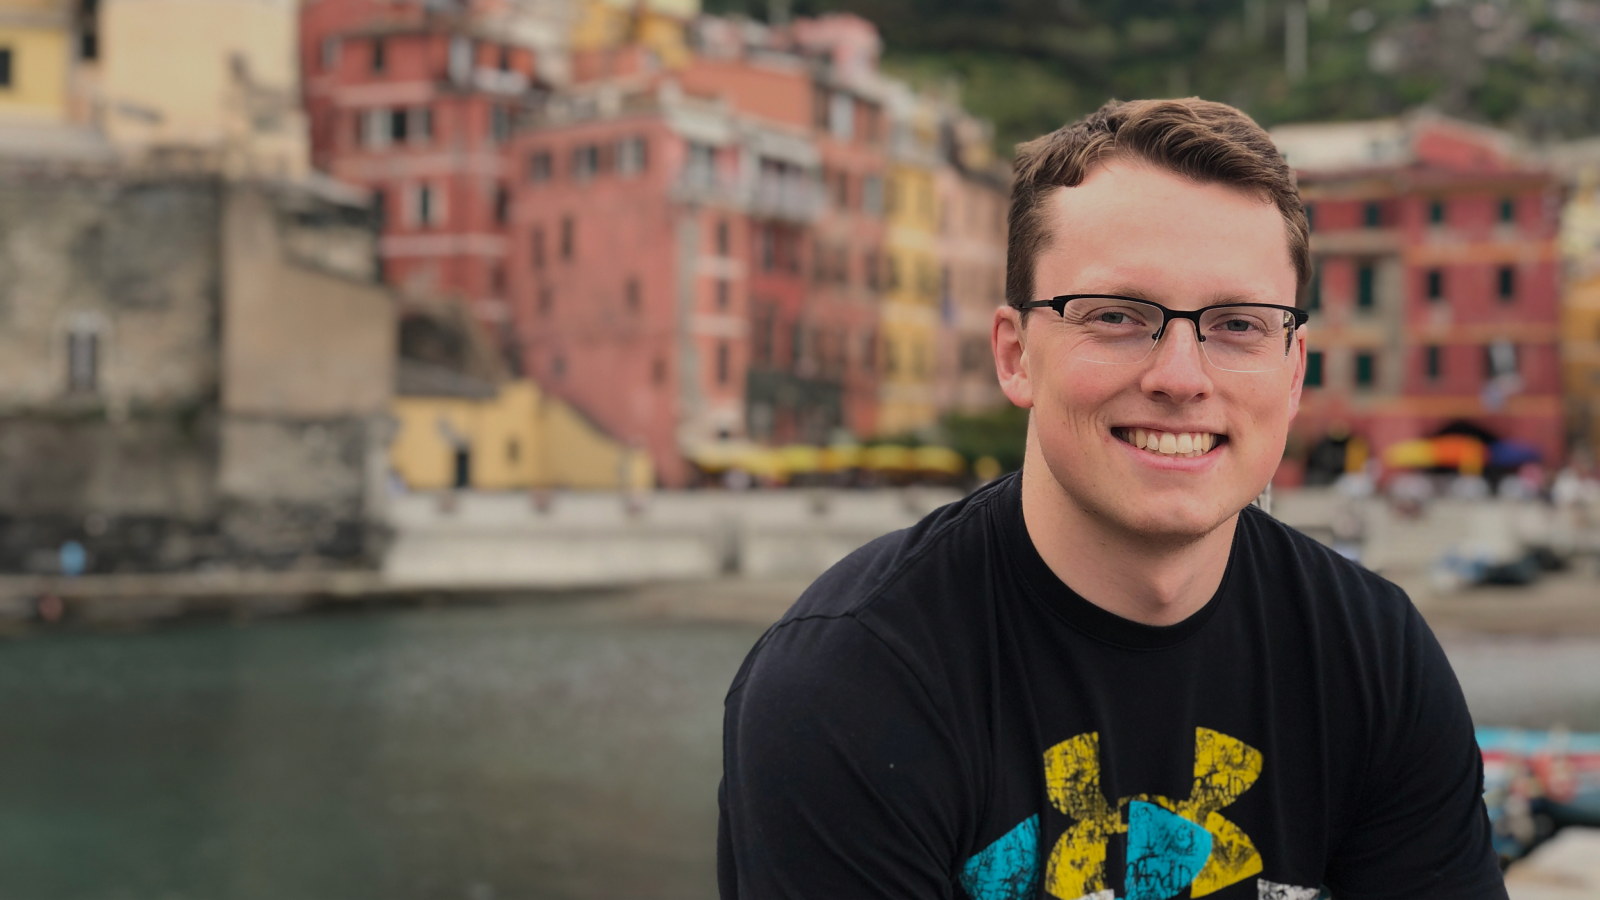
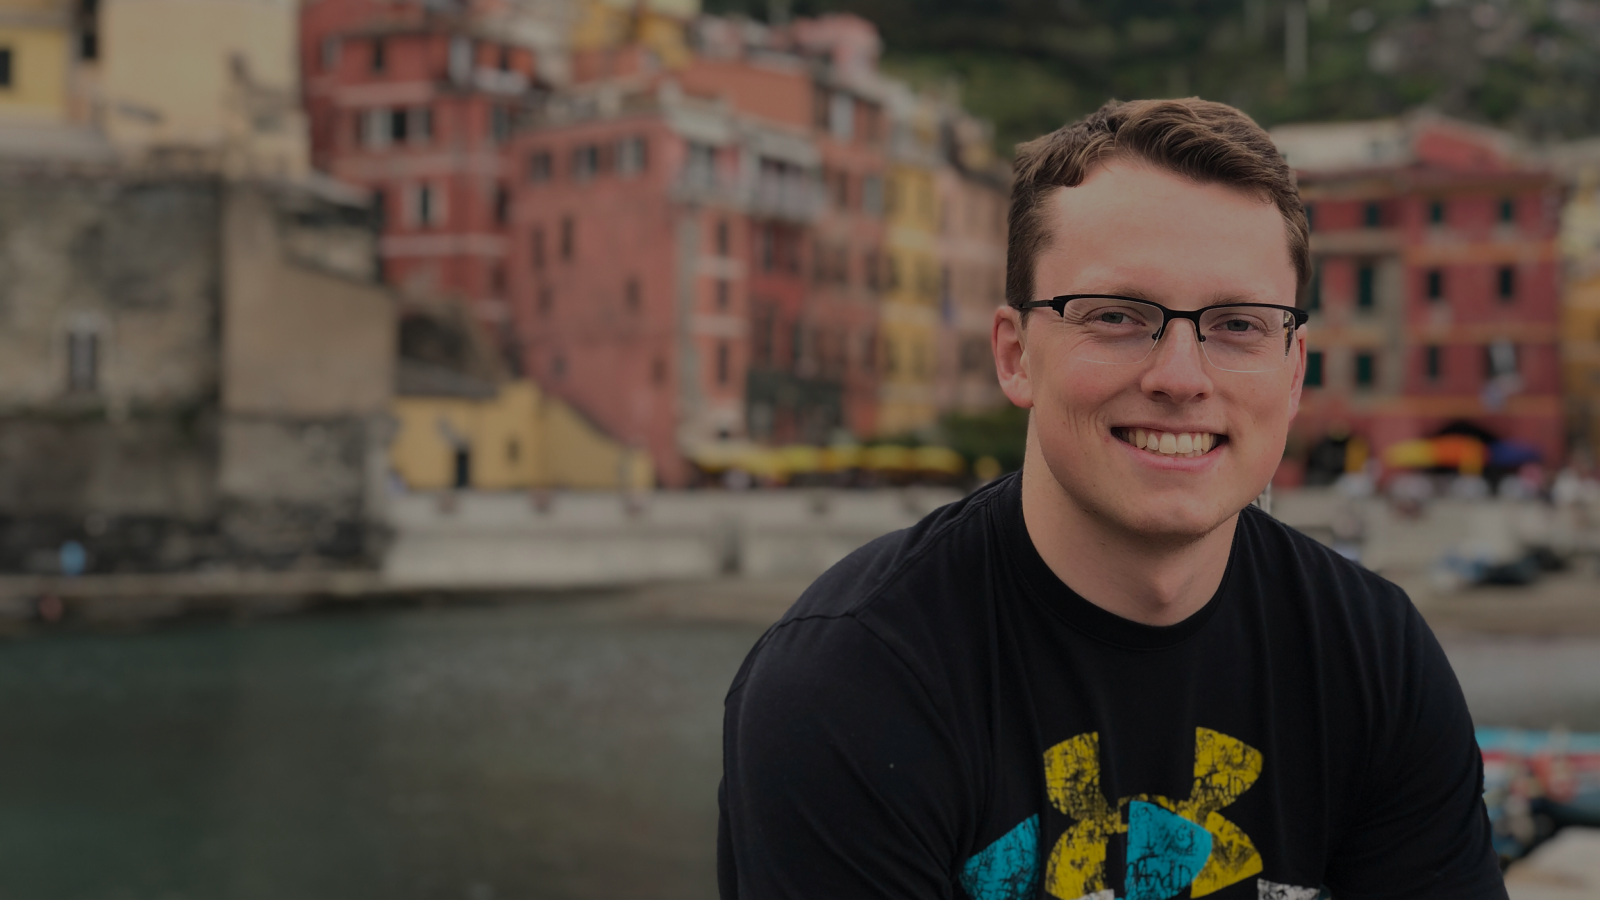
fixing mobile issues

diff --git a/index.html b/index.html
@@ -305,7 +305,10 @@
             <div class="col-lg-4 col-md-6 portfolio-item filter-app">
               <div class="card">
                 <div class="ratio ratio-16x9">
-                  <img class="card-img-top img-thumbnail" src="assets/img/CT_Wide_Left 1.png" />
+                  <img
+                    class="card-img-top img-thumbnail"
+                    src="assets/img/portfolio/website_hero.png"
+                  />
                 </div>
                 <div class="card-body">
                   <h4 class="card-title">This Website</h4>
@@ -366,7 +369,7 @@
           </div>
 
           <div class="row m-auto" data-aos="fade-in">
-            <div class="info col-lg-4 d-flex w-auto h-100 me-2">
+            <div class="info col-lg-4 d-flex w-auto h-100 me-2 mt-2">
               <div class="linkedin d-flex align-items-center">
                 <a
                   class="d-flex align-items-center"
@@ -377,7 +380,7 @@
                 </a>
               </div>
             </div>
-            <div class="info col-lg-4 d-flex w-auto h-100">
+            <div class="info col-lg-4 d-flex w-auto h-100 mt-2 me-2">
               <div class="mail d-flex align-items-center">
                 <a class="d-flex align-items-center">
                   <i class="bi bi-envelope d-flex" style="color: gray"></i>

diff --git a/assets/css/style.css b/assets/css/style.css
@@ -247,7 +247,7 @@ h6 {
 
 #hero:before {
   content: '';
-  background: rgba(5, 13, 24, 0.3);
+  /* background: rgba(5, 13, 24, 0.3); */
   position: absolute;
   bottom: 0;
   top: 0;
